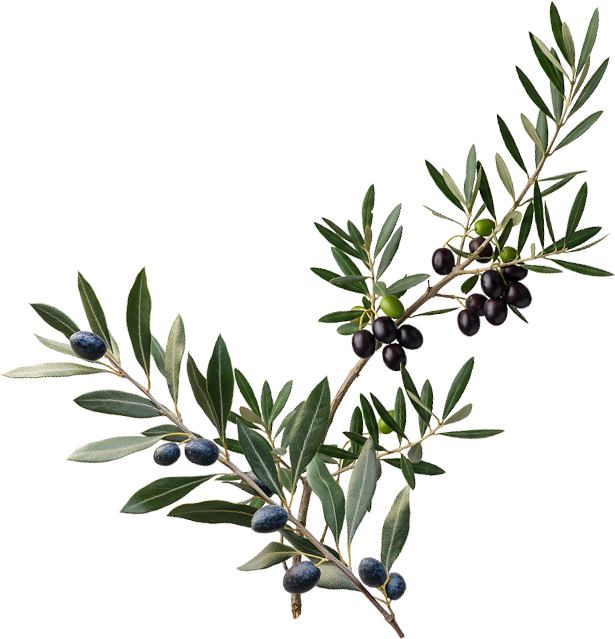
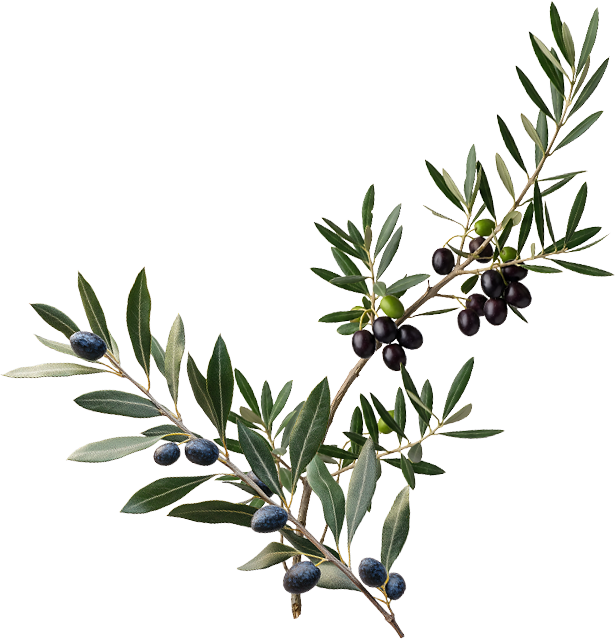
Update homepage: hero bottles, carousel and menu motion, video, link cleanup
- Hero: bottles repositioned per the reference, rotate with scroll, title
  fade starts later, sky overscanned so pointer parallax shows no edge gap
- Product stage: slide index aligned across slides, panels share one height,
  animated accordions, no unclipped frame at the start of a wipe
- Mega menu opens and closes with a curtain; carousels fade cards in and
  drift photos while sliding
- Yudum Dünyası uses the looping video; social strip is a marquee
- Footer logo is now an SVG; external links removed, YudumToptan buttons
  stay interactive but no longer navigate

diff --git a/index.html b/index.html
@@ -117,10 +117,10 @@
   /* ══ ① HERO — Figma 5:2 ═════════════════════════════ */
   .hero{--h:1080;background:var(--sky)}
   .lay{position:absolute;left:0;top:0;width:1920px;height:1080px;will-change:transform}
-  .hero__sky{left:0;top:-139px;width:1920px;height:1271px;object-fit:cover}
+  .hero__sky{left:-24px;top:-139px;width:1968px;height:1271px;object-fit:cover}
   .hero__title{left:165px;top:215px;width:1589px;text-align:center;font-size:160px;line-height:166px;letter-spacing:4.8px;color:#fff;text-transform:uppercase}
-  .hero__olive{left:624px;top:680px;width:256px;height:507px}
-  .hero__sun{left:1026.74px;top:404.08px;width:234px;height:604.339px;transform:rotate(-3.79deg)}
+  .hero__olive{left:283px;top:560px;width:256px;height:507px;transform:rotate(3deg)}
+  .hero__sun{left:1326px;top:250px;width:234px;height:604.339px;transform:rotate(-5.5deg)}
   .hero__sun img{position:absolute;left:0;top:0;width:237.654px;height:613.775px}
   .hero__clouds{left:-127px;top:304px;width:2112px;height:739.2px}
   .hero__fade{left:0;top:934px;width:1920px;height:191px;background:linear-gradient(to bottom,rgba(247,246,241,0),#fff)}
@@ -268,7 +268,7 @@
   .y-social-heading .y-kicker{margin-top:6px;font-size:9px;color:var(--muted)}
   .y-social-mark{width:38px;height:38px}
   .y-social-links{display:flex;align-items:center;gap:30px;font-size:11px}
-  .y-social-links a{padding:14px 0;border-bottom:1px solid transparent}
+  .y-social-links a,.y-social-links span{padding:14px 0;border-bottom:1px solid transparent}
   .y-social-links a:hover{border-color:currentColor}
   .y-footer{background:#e5e7d9;padding:55px var(--pad) 24px}
   .y-footer-top{display:grid;grid-template-columns:1.4fr 1fr 1fr 1fr;gap:45px;padding-bottom:52px}
@@ -544,7 +544,7 @@
 .y-footer nav button,.y-footer nav a{font:inherit;text-align:left}
 .y-footer-label{font:400 11px/14px var(--mar);letter-spacing:1.9px;color:#7a6450;margin:24px 0 6px}
 .y-footer-contact{position:relative;font:400 15px/20px var(--sans);padding-bottom:64px}.y-footer-contact>h3+.y-footer-label{margin-top:0}.y-footer-contact>a{display:block;margin-top:6px}
-.y-footer-social{display:flex;align-items:center;gap:30px;margin-top:22px}.y-footer-social a{display:flex;width:20px;height:20px;align-items:center;justify-content:center}.y-footer-social img{width:100%;height:100%;object-fit:contain}
+.y-footer-social{display:flex;align-items:center;gap:30px;margin-top:22px}.y-footer-social a,.y-footer-social span{display:flex;width:20px;height:20px;align-items:center;justify-content:center}.y-footer-social img{width:100%;height:100%;object-fit:contain}
 .y-tiryaki{position:absolute;bottom:24px;right:0;width:120px;height:37px;object-fit:contain}
 .y-footer-base{height:68px;padding:22px 0 28px;border-top:1px solid var(--line);font:400 12px/18px var(--sans);color:#7a6450}.y-footer-base>div{display:flex;gap:28px;font:400 12px/18px var(--mar);letter-spacing:1.7px;color:#2a3a27}
 .y-dialog{background:#efe8dc;color:#45311f}.y-dialog-close{background:#efe8dc;color:#45311f;border-color:#45311f}.y-dialog-content h2{font-family:var(--custom);font-weight:400}.y-dialog :focus-visible{outline-color:#45311f}
@@ -626,8 +626,8 @@
 .y-footer nav a:hover,.y-footer nav button:hover,.y-footer-contact>a:hover,.y-footer-base a:hover,.y-footer-base button:hover,
 .y-footer nav a:focus-visible,.y-footer nav button:focus-visible,.y-footer-contact>a:focus-visible,.y-footer-base a:focus-visible,.y-footer-base button:focus-visible{color:#FF5E00;text-decoration:none}
 /* Social strip links: orange on hover, never underlined. */
-.y-social-links a{border-bottom:0;text-decoration:none;transition:color .25s ease}
-.y-social-links a:hover,.y-social-links a:focus-visible{color:#FF5E00;border-color:transparent;text-decoration:none}
+.y-social-links a,.y-social-links span{border-bottom:0;text-decoration:none;transition:color .25s ease}
+.y-social-links a:hover,.y-social-links a:focus-visible,.y-social-links span:hover{color:#FF5E00;border-color:transparent;text-decoration:none}
 
 @media(min-width:901px) and (max-width:1700px){
  .y-recipes{padding-top:44px}.y-intro{height:290px}.y-intro .y-title{top:82px}.y-intro p{top:185px;right:0}.y-intro .y-brand-flower{top:48px}
@@ -649,7 +649,7 @@
  .nav.menu-open{background:#239fcc;transform:none}.nav.menu-open .nav__links{display:flex;flex-direction:column}.nav__links a{height:auto;padding:16px 0;border-bottom:1px solid #ffffff50;font-size:14px}
  .nav .search{left:0;top:80px;width:100%;height:auto;min-height:100px;padding:24px}.search input{position:static;width:100%;font-size:18px}
  .hero{height:760px;min-height:85svh;max-height:1000px}.hero .art{width:100%;height:100%;transform:none}.hero .lay{width:100%;height:100%}
- .hero__sky{left:0;top:0;width:100%;height:100%;object-fit:cover}.hero__title{left:5%;top:150px;width:90%;font-size:clamp(48px,9vw,80px);line-height:1.06;letter-spacing:.025em}
+ .hero__sky{left:-3%;top:0;width:106%;height:100%;object-fit:cover}.hero__title{left:5%;top:150px;width:90%;font-size:clamp(48px,9vw,80px);line-height:1.06;letter-spacing:.025em}
  .hero__olive{left:27%;top:64%;width:17%;height:auto}.hero__sun{left:54%;top:41%;width:20%;height:auto;aspect-ratio:238/614}.hero__sun img{width:100%;height:100%;object-fit:contain}.hero__clouds{left:-20%;top:35%;width:140%;height:55%;object-fit:cover}.hero__fade{left:0;top:auto;bottom:0;width:100%;height:15%}
  .stage{height:auto;overflow:hidden;scroll-margin-top:80px}.stage>.art{position:relative;width:100%;height:auto;transform:none}.stage .slide{position:relative;width:100%;height:auto;min-height:0;display:none;overflow:visible;padding:42px 24px 28px}
  .stage .slide.is-active,.stage .slide.is-moving{display:grid;grid-template-columns:1fr;gap:18px}.stage .slide.is-moving{position:absolute;inset:0}
@@ -770,14 +770,14 @@
       <div class="lay" data-depth=".24" data-mouse="16" data-fade="1">
         <h1 class="a hero__title marsc">İyiliği<br />doğadan,<br />hafifliği<br />Yudum’dan</h1>
       </div>
-      <div class="lay" data-depth="-.08" data-mouse="30">
-        <img class="a hero__olive" data-rot=".006" src="assets/images/hero-olive.webp" alt="Yudum Egemden Natürel Sızma Zeytinyağı" />
-      </div>
-      <div class="lay" data-depth="-.2" data-mouse="46">
-        <div class="a hero__sun" data-rot="-.007" data-base="-3.79"><img src="assets/images/hero-sunflower.webp" alt="Yudum Ayçiçek Yağı" /></div>
-      </div>
       <div class="lay" data-depth="-.3" data-mouse="60">
         <img class="a hero__clouds" src="assets/images/clouds-front.webp" alt="" />
+      </div>
+      <div class="lay" data-depth="-.08" data-mouse="30">
+        <img class="a hero__olive" data-rot="-0.015741" data-base="3" src="assets/images/hero-olive.webp" alt="Yudum Egemden Natürel Sızma Zeytinyağı" />
+      </div>
+      <div class="lay" data-depth="-.2" data-mouse="46">
+        <div class="a hero__sun" data-rot="0.014352" data-base="-5.5"><img src="assets/images/hero-sunflower.webp" alt="Yudum Ayçiçek Yağı" /></div>
       </div>
       <div class="a hero__fade" aria-hidden="true"></div>
     </div>
@@ -802,7 +802,7 @@
           <p class="a idx-num mar">01<span class="idx-of">/03</span></p>
           <span class="a idx-dash"></span>
           <p class="a idx-lbl cap10">AYÇİÇEK YAĞI</p>
-          <a class="a box marsc" href="https://yudumtoptan.com/">ÜRÜNLERİ İNCELE</a>
+          <button class="a box marsc" type="button">ÜRÜNLERİ İNCELE</button>
         </div>
         <div class="prod"><img class="botany" src="assets/images/figma-imgSunflowerBck1.png" alt="" style="left:658px;top:425px;width:603px;height:322px" /><img src="assets/images/figma-imgYudumAycicekYagi1L.png" alt="Yudum Ayçiçek Yağı 1 L" style="left:863px;top:243px;width:193.4px;height:560px" /></div>
         <div class="slide__c product-copy">
@@ -826,7 +826,7 @@
           <p class="a idx-num mar">02<span class="idx-of">/03</span></p>
           <span class="a idx-dash"></span>
           <p class="a idx-lbl cap10">ZEYTİNYAĞI</p>
-          <a class="a box marsc" href="https://yudumtoptan.com/">ÜRÜNLERİ İNCELE</a>
+          <button class="a box marsc" type="button">ÜRÜNLERİ İNCELE</button>
         </div>
         <div class="prod"><img class="botany" src="assets/images/figma-imgOlivebck1.png" alt="" style="left:727px;top:307px;width:433px;height:450px" /><img src="assets/images/figma-imgYudumEgemdenNaturelSizmaZeytinyagi1L.png" alt="Yudum Egemden Natürel Sızma Zeytinyağı 1 L" style="left:873px;top:222px;width:173.1px;height:574px" /></div>
         <div class="slide__c product-copy">
@@ -850,7 +850,7 @@
           <p class="a idx-num mar">03<span class="idx-of">/03</span></p>
           <span class="a idx-dash"></span>
           <p class="a idx-lbl cap10">PROFESYONEL — VALA</p>
-          <a class="a box marsc" href="https://yudumtoptan.com/">ÜRÜNLERİ İNCELE</a>
+          <button class="a box marsc" type="button">ÜRÜNLERİ İNCELE</button>
         </div>
         <div class="prod"><img src="assets/images/stage-vala.webp" alt="Vala Pastacılık bitkisel margarin kolisi" style="left:711.4px;top:418px;width:497.2px;height:364px;filter:drop-shadow(0 36px 40px rgba(0,0,0,.28))" /></div>
         <div class="slide__c product-copy">
@@ -912,7 +912,7 @@
   <section class="y-section y-social" id="sosyal" aria-label="Sosyal medya">
     <div class="y-social-heading"><img class="y-social-mark" src="assets/images/current-imgAycicegiCizimi1.svg" alt=""><div><p>Bir yudum da ilham.</p><div class="y-kicker">SOFRADA, HAYATTA, HER GÜN.</div></div></div>
     <div class="y-social-gallery" aria-label="Sosyal medya görselleri" tabindex="0"><div><img src="assets/images/Firefly_Gemini%20Flash_a%20lady%20from%20Aegean%20part%20with%20aegean%20sea%20at%20the%20background%20581561.png" alt="Ege kıyısında zeytin toplayan gülümseyen kadın" style="object-position:52% center" loading="lazy" draggable="false"></div><div><img src="assets/images/Firefly_olive%20trees%20on%20a%20bright%20day%20at%20the%20mediterrenean%20516092.jpg" alt="Denize bakan yamaçta zeytin ağaçları" style="object-position:62% center" loading="lazy" draggable="false"></div><div><img src="assets/images/Firefly_Gemini-Flash_a-turkish-villager-lady-from-Aegean-part-80386.jpg" alt="Zeytinlikte elinde zeytin sepetiyle köylü kadın" style="object-position:70% center" loading="lazy" draggable="false"></div><div><img src="assets/images/Firefly_sun%20flower%20field%20396011.jpg" alt="Gün batımında ayçiçeği tarlası" style="object-position:70% center" loading="lazy" draggable="false"></div><div><img src="assets/images/Firefly_olive%20trees%20on%20a%20bright%20day%20at%20the%20mediterrenean%20662714.jpg" alt="Mavi gökyüzü altında yaşlı zeytin ağacı" style="object-position:52% center" loading="lazy" draggable="false"></div><div><img src="assets/images/Firefly_olive%20trees%20on%20a%20bright%20day%20at%20the%20mediterrenean%20899736.jpg" alt="Deniz kenarında yeşil çayırda zeytin ağaçları" style="object-position:80% center" loading="lazy" draggable="false"></div></div>
-    <div class="y-social-links" lang="en"><a href="https://www.facebook.com/YudumYag/" target="_blank" rel="noopener noreferrer">Facebook</a><a href="https://www.instagram.com/yudumyag/" target="_blank" rel="noopener noreferrer">Instagram</a><a href="https://www.linkedin.com/company/yudum/" target="_blank" rel="noopener noreferrer">LinkedIn</a><a href="https://www.youtube.com/@YudumYag" target="_blank" rel="noopener noreferrer">YouTube</a></div>
+    <div class="y-social-links" lang="en"><span>Facebook</span><span>Instagram</span><span>LinkedIn</span><span>YouTube</span></div>
   </section>
 </main>
 <footer class="y-footer" id="iletisim">
@@ -923,10 +923,10 @@
   <div class="y-sitemap">
     <nav aria-label="Alt menü ürünler"><h3>ÜRÜNLER</h3><ul><li><a href="#urunler" data-go="0">Ayçiçek Yağları</a></li><li><a href="#urunler" data-go="1">Egemden Zeytinyağları</a></li></ul></nav>
     <nav aria-label="Alt menü tarifler"><h3>İLHAM VEREN TARİFLER</h3><ul><li><button data-detail="pot">Tencere Yemekleri</button></li><li><button data-detail="olive">Zeytinyağlı Tarifleri</button></li><li><button data-detail="crisp">Kızartma Tarifleri</button></li><li><button data-detail="oven">Fırın Yemekleri</button></li></ul></nav>
-    <nav aria-label="Alt menü Yudum dünyası"><h3>YUDUM DÜNYASI</h3><ul><li><button data-detail="journal">Hikayemiz</button></li><li><a href="https://yudumtoptan.com/" target="_blank" rel="noopener noreferrer">Üretim Tesislerimiz &amp; Kalite</a></li><li><a href="#iyilik">Sosyal Sorumluluk Projeleri</a></li></ul></nav>
+    <nav aria-label="Alt menü Yudum dünyası"><h3>YUDUM DÜNYASI</h3><ul><li><button data-detail="journal">Hikayemiz</button></li><li><button type="button">Üretim Tesislerimiz &amp; Kalite</button></li><li><a href="#iyilik">Sosyal Sorumluluk Projeleri</a></li></ul></nav>
     <nav aria-label="Alt menü profesyonel"><h3>PROFESYONEL ÇÖZÜMLER</h3><ul><li><a href="#urunler" data-go="2">Endüstriyel Çözümler</a></li><li><a href="#urunler" data-go="2">Pastacılık Çözümleri</a></li><li><a href="#urunler" data-go="2">Yudum Professional</a></li></ul></nav>
-    <nav aria-label="Alt menü kurumsal"><h3>KURUMSAL</h3><ul><li><button data-detail="journal">Hakkımızda</button></li><li><button data-detail="contact">İletişim</button></li><li><button data-detail="contact">İhracat</button></li></ul><p class="y-footer-label">YASAL</p><ul><li><a href="https://yudumtoptan.com/" target="_blank" rel="noopener noreferrer">KVKK Aydınlatma Metni</a></li><li><a href="https://yudumtoptan.com/" target="_blank" rel="noopener noreferrer">Gizlilik Politikası</a></li><li><a href="https://yudumtoptan.com/" target="_blank" rel="noopener noreferrer">Çerez Politikası</a></li><li><button data-detail="contact">Sık Sorulan Sorular</button></li></ul></nav>
-    <nav class="y-footer-contact" aria-label="Alt menü iletişim"><h3>BİZE ULAŞIN</h3><p class="y-footer-label">ÇAĞRI MERKEZİ</p><p>0850 000 00 00</p><a href="mailto:info@yudum.com.tr">info@yudum.com.tr</a><p class="y-footer-label y-follow-label">TAKİP ET</p><div class="y-footer-social"><a href="https://www.instagram.com/yudumyag/" aria-label="Instagram"><img src="assets/images/current-imgGroup.svg" alt=""></a><a href="https://x.com/YudumYag" aria-label="X"><img src="assets/images/current-imgFrame2.svg" alt=""></a><a href="https://www.youtube.com/@YudumYag" aria-label="YouTube"><img src="assets/images/current-imgGroup1.svg" alt=""></a><a href="https://www.facebook.com/YudumYag/" aria-label="Facebook"><img src="assets/images/current-imgFrame3.svg" alt=""></a><a href="https://www.linkedin.com/company/yudum/" aria-label="LinkedIn"><img src="assets/images/current-imgGroup2.svg" alt=""></a></div><img class="y-tiryaki" src="assets/images/current-imgTiryakiLogoVectorSvg1.png" alt="Tiryaki"></nav>
+    <nav aria-label="Alt menü kurumsal"><h3>KURUMSAL</h3><ul><li><button data-detail="journal">Hakkımızda</button></li><li><button data-detail="contact">İletişim</button></li><li><button data-detail="contact">İhracat</button></li></ul><p class="y-footer-label">YASAL</p><ul><li><button type="button">KVKK Aydınlatma Metni</button></li><li><button type="button">Gizlilik Politikası</button></li><li><button type="button">Çerez Politikası</button></li><li><button data-detail="contact">Sık Sorulan Sorular</button></li></ul></nav>
+    <nav class="y-footer-contact" aria-label="Alt menü iletişim"><h3>BİZE ULAŞIN</h3><p class="y-footer-label">ÇAĞRI MERKEZİ</p><p>0850 000 00 00</p><a href="mailto:info@yudum.com.tr">info@yudum.com.tr</a><p class="y-footer-label y-follow-label">TAKİP ET</p><div class="y-footer-social"><span role="img" aria-label="Instagram"><img src="assets/images/current-imgGroup.svg" alt=""></span><span role="img" aria-label="X"><img src="assets/images/current-imgFrame2.svg" alt=""></span><span role="img" aria-label="YouTube"><img src="assets/images/current-imgGroup1.svg" alt=""></span><span role="img" aria-label="Facebook"><img src="assets/images/current-imgFrame3.svg" alt=""></span><span role="img" aria-label="LinkedIn"><img src="assets/images/current-imgGroup2.svg" alt=""></span></div><img class="y-tiryaki" src="assets/images/current-imgTiryakiLogoVectorSvg1.png" alt="Tiryaki"></nav>
   </div>
   <div class="y-footer-base"><p>© 2026 Yudum. Tüm hakları saklıdır.</p><div><button class="y-language" type="button">TR — EN</button><a href="#top">BAŞA DÖN</a></div></div>
 </footer>
@@ -982,7 +982,7 @@
     var layers = [].map.call(hero.querySelectorAll('[data-depth]'), function(el){
       return {el:el, d:+el.dataset.depth, m:+(el.dataset.mouse || 0), f:!!el.dataset.fade};
     });
-    /* bottles turn gently with scroll, around their own centre; eased so it feels soft */
+    /* bottles turn with scroll around their own centre, eased: data-base = angle at top, data-rot = deg per art px over the 1080px hero (olive 3°→-14°, sunflower -5.5°→10°) */
     var spins = [].map.call(hero.querySelectorAll('[data-rot]'), function(el){
       return {el:el, r:+el.dataset.rot, b:+(el.dataset.base || 0)};
     });
@@ -998,7 +998,7 @@
       var y = Math.max(0, Math.min(scrollY / s, 1080));
       layers.forEach(function(L){
         L.el.style.transform = 'translate3d(' + (-mx * L.m).toFixed(2) + 'px,' + (y * L.d - my * L.m * .5).toFixed(2) + 'px,0)';
-        if(L.f) L.el.style.opacity = (1 - (y / 1080) * 1.1).toFixed(3);
+        if(L.f) L.el.style.opacity = Math.max(0, 1 - Math.max(0, y - 300) / 650).toFixed(3); /* title holds full opacity for the first 300px of scroll */
       });
       ry += (y - ry) * .12;
       spins.forEach(function(R){
@@ -1041,12 +1041,16 @@
       from.classList.remove('is-active'); next.classList.add('is-active'); cur = to; return;
     }
     busy = true;
+    // Clip before the slide becomes visible, or it shows unclipped for one frame.
+    var startClip = dir > 0 ? 'inset(0 0 0 100%)' : 'inset(0 100% 0 0)';
+    next.style.clipPath = startClip;
     next.classList.add('is-moving');
 
     // Colour curtain (reference: Domingo) — the next slide is revealed edge-to-edge.
+    // fill:forwards holds the open state until the class swap, so the curtain never snaps back.
     var wipe = next.animate(
-      [{clipPath: dir > 0 ? 'inset(0 0 0 100%)' : 'inset(0 100% 0 0)'}, {clipPath:'inset(0 0% 0 0%)'}],
-      {duration:DUR, easing:EASE});
+      [{clipPath: startClip}, {clipPath:'inset(0 0% 0 0%)'}],
+      {duration:DUR, easing:EASE, fill:'forwards'});
 
     // Incoming layers settle at different speeds behind the curtain edge.
     var tx = function(v){ return 'translateX(' + v + 'px)'; };
@@ -1068,6 +1072,8 @@
       from.querySelectorAll('details[open]').forEach(function(d){ d.open = false; });
       next.classList.add('is-active');
       next.classList.remove('is-moving');
+      next.style.clipPath = '';
+      try{ wipe.cancel(); }catch(e){}
       cur = to; busy = false;
       if(pending){ var p = pending; pending = null; go(p[0], p[1]); }
     };
@@ -1247,7 +1253,7 @@
     {title:'Her sofraya<br>bir yudum iyilik.',description:'Ayçiçek yağlarından Egemden natürel sızma zeytinyağlarına; günlük mutfağın hafif ve lezzetli yağları.',label:'ÜRÜNLER',cta:'TÜM ÜRÜNLER',href:'#urunler',links:[['Ayçiçek Yağları','#urunler',0],['Egemden Zeytinyağları','#urunler',1]],type:'product'},
     {title:'Bugün sofranızda<br>ne var?',description:'Mevsimin malzemeleri, bir yudum ilham. Her gün yeniden keşfedilecek lezzetler.',label:'İLHAM VEREN TARİFLER',cta:'TÜM TARİFLER',href:'#tarifler',links:[['Tencere Yemekleri','#tarifler'],['Zeytinyağlı Tarifleri','#tarifler'],['Kızartma Tarifleri','#tarifler'],['Fırın Yemekleri','#tarifler']],type:'recipe',image:'assets/images/current-figma-menu-19-287-imgGorsel.png'},
     {title:'İyilik, köklerinden<br>geleceğe uzanır.',description:'Toprağın bereketine, üreticinin emeğine ve birlikte büyümenin gücüne inanıyoruz.',label:'YUDUM DÜNYASI',cta:'YUDUM DÜNYASI',href:'#iyilik',links:[['Hikayemiz','#haberler'],['Üretim Tesislerimiz & Kalite','https://yudumtoptan.com/'],['Sosyal Sorumluluk Projeleri','#iyilik']],type:'world',image:'assets/images/current-figma-menu-20-322-imgGorsel.png'},
-    {title:'Profesyonel<br>mutfakların ustalığı.',description:'Endüstriyel üretimden pastaneye; profesyonel mutfaklar için geliştirilmiş bitkisel yağlar.',label:'PROFESYONEL ÇÖZÜMLER',cta:'YUDUMTOPTAN',href:'https://yudumtoptan.com/',links:[['Endüstriyel Çözümler','#urunler',2],['Pastacılık Çözümleri','#urunler',2],['Yudum Professional','#urunler',2]],type:'professional',image:'assets/images/current-figma-menu-20-396-imgCizimBasak.svg'}
+    {title:'Profesyonel<br>mutfakların ustalığı.',description:'Endüstriyel üretimden pastaneye; profesyonel mutfaklar için geliştirilmiş bitkisel yağlar.',label:'PROFESYONEL ÇÖZÜMLER',cta:'YUDUMTOPTAN',href:'#urunler',links:[['Endüstriyel Çözümler','#urunler',2],['Pastacılık Çözümleri','#urunler',2],['Yudum Professional','#urunler',2]],type:'professional',image:'assets/images/current-figma-menu-20-396-imgCizimBasak.svg'}
   ];
   let activeMenu=-1,closeTimer,hideTimer;
   const reducedMotion=matchMedia('(prefers-reduced-motion: reduce)');
